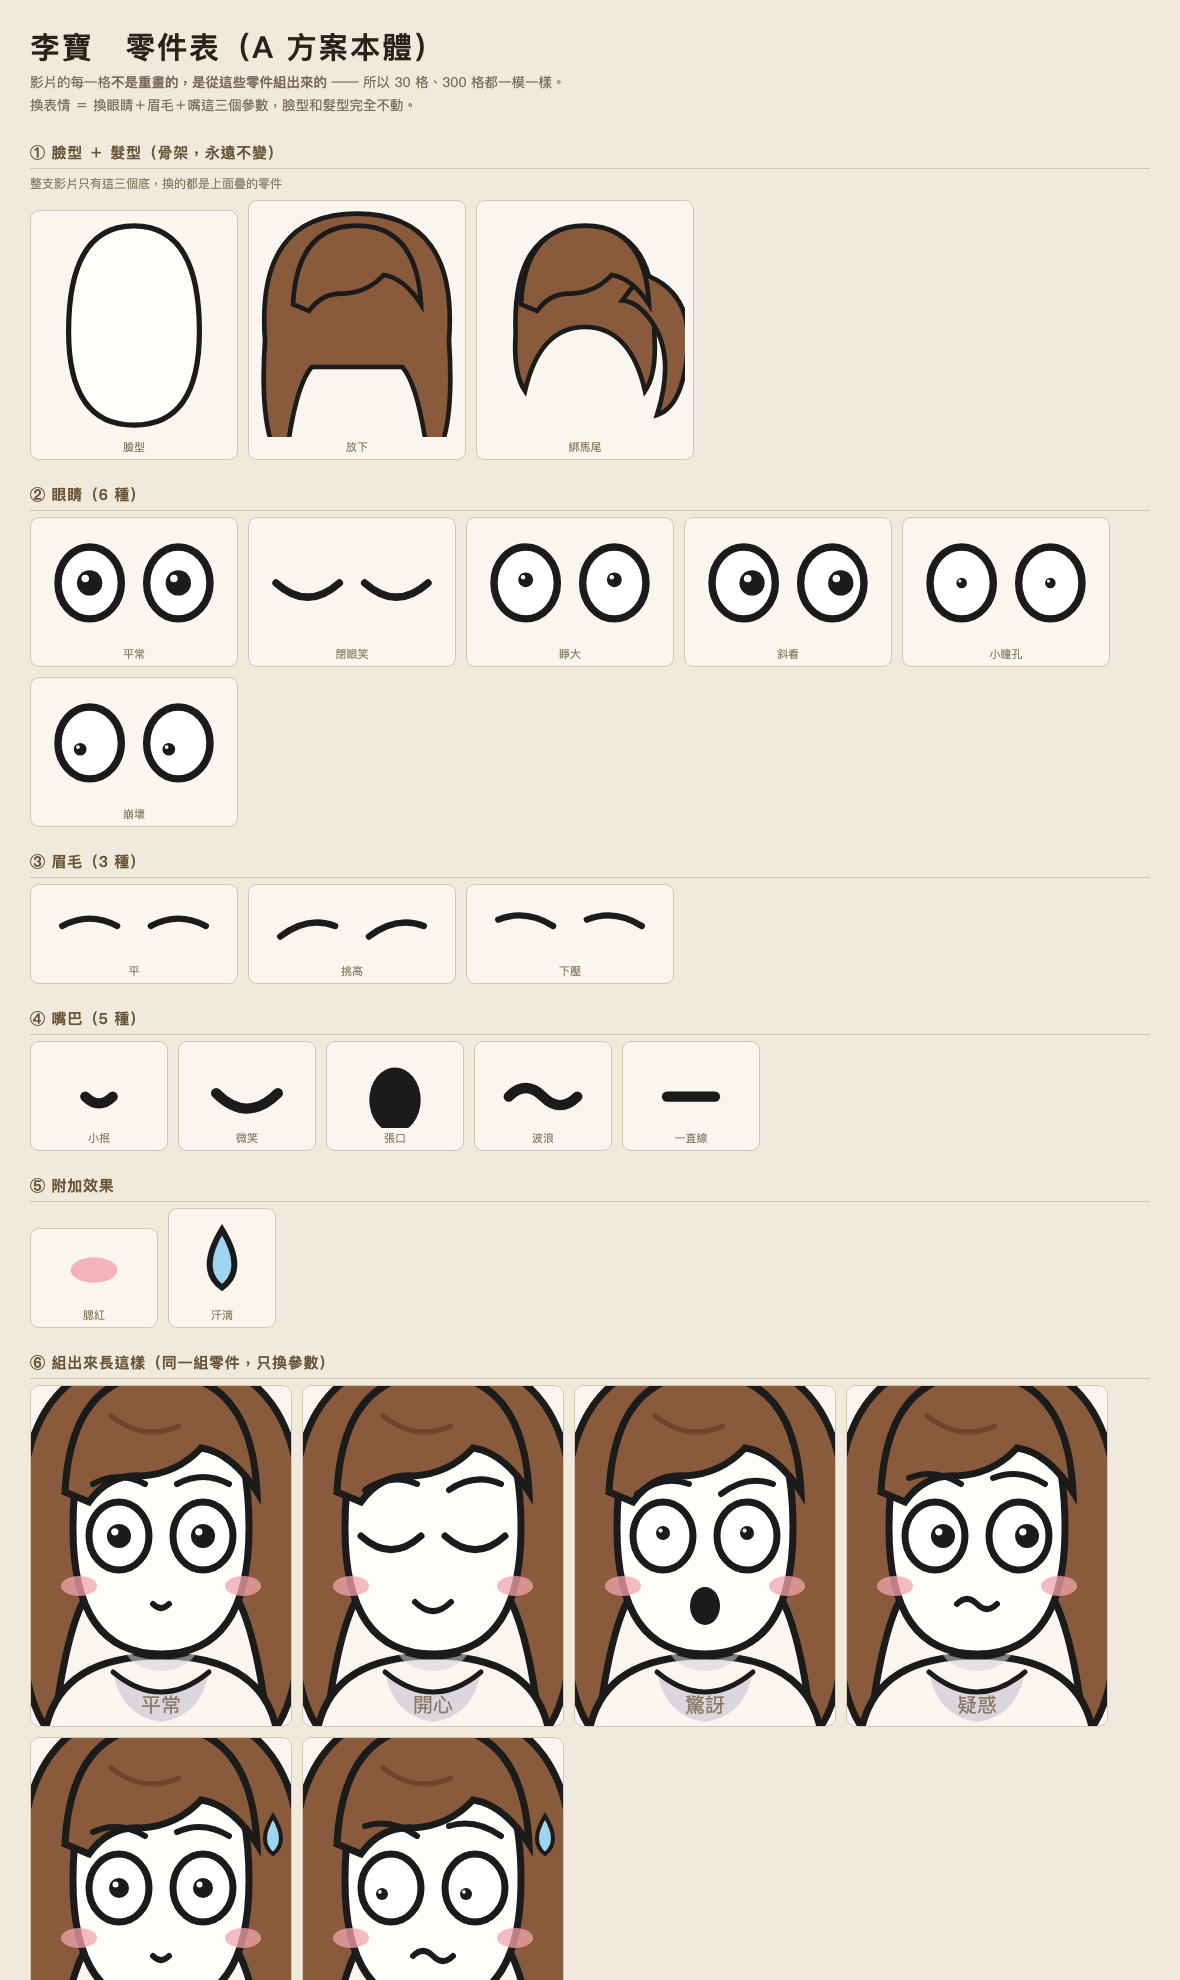
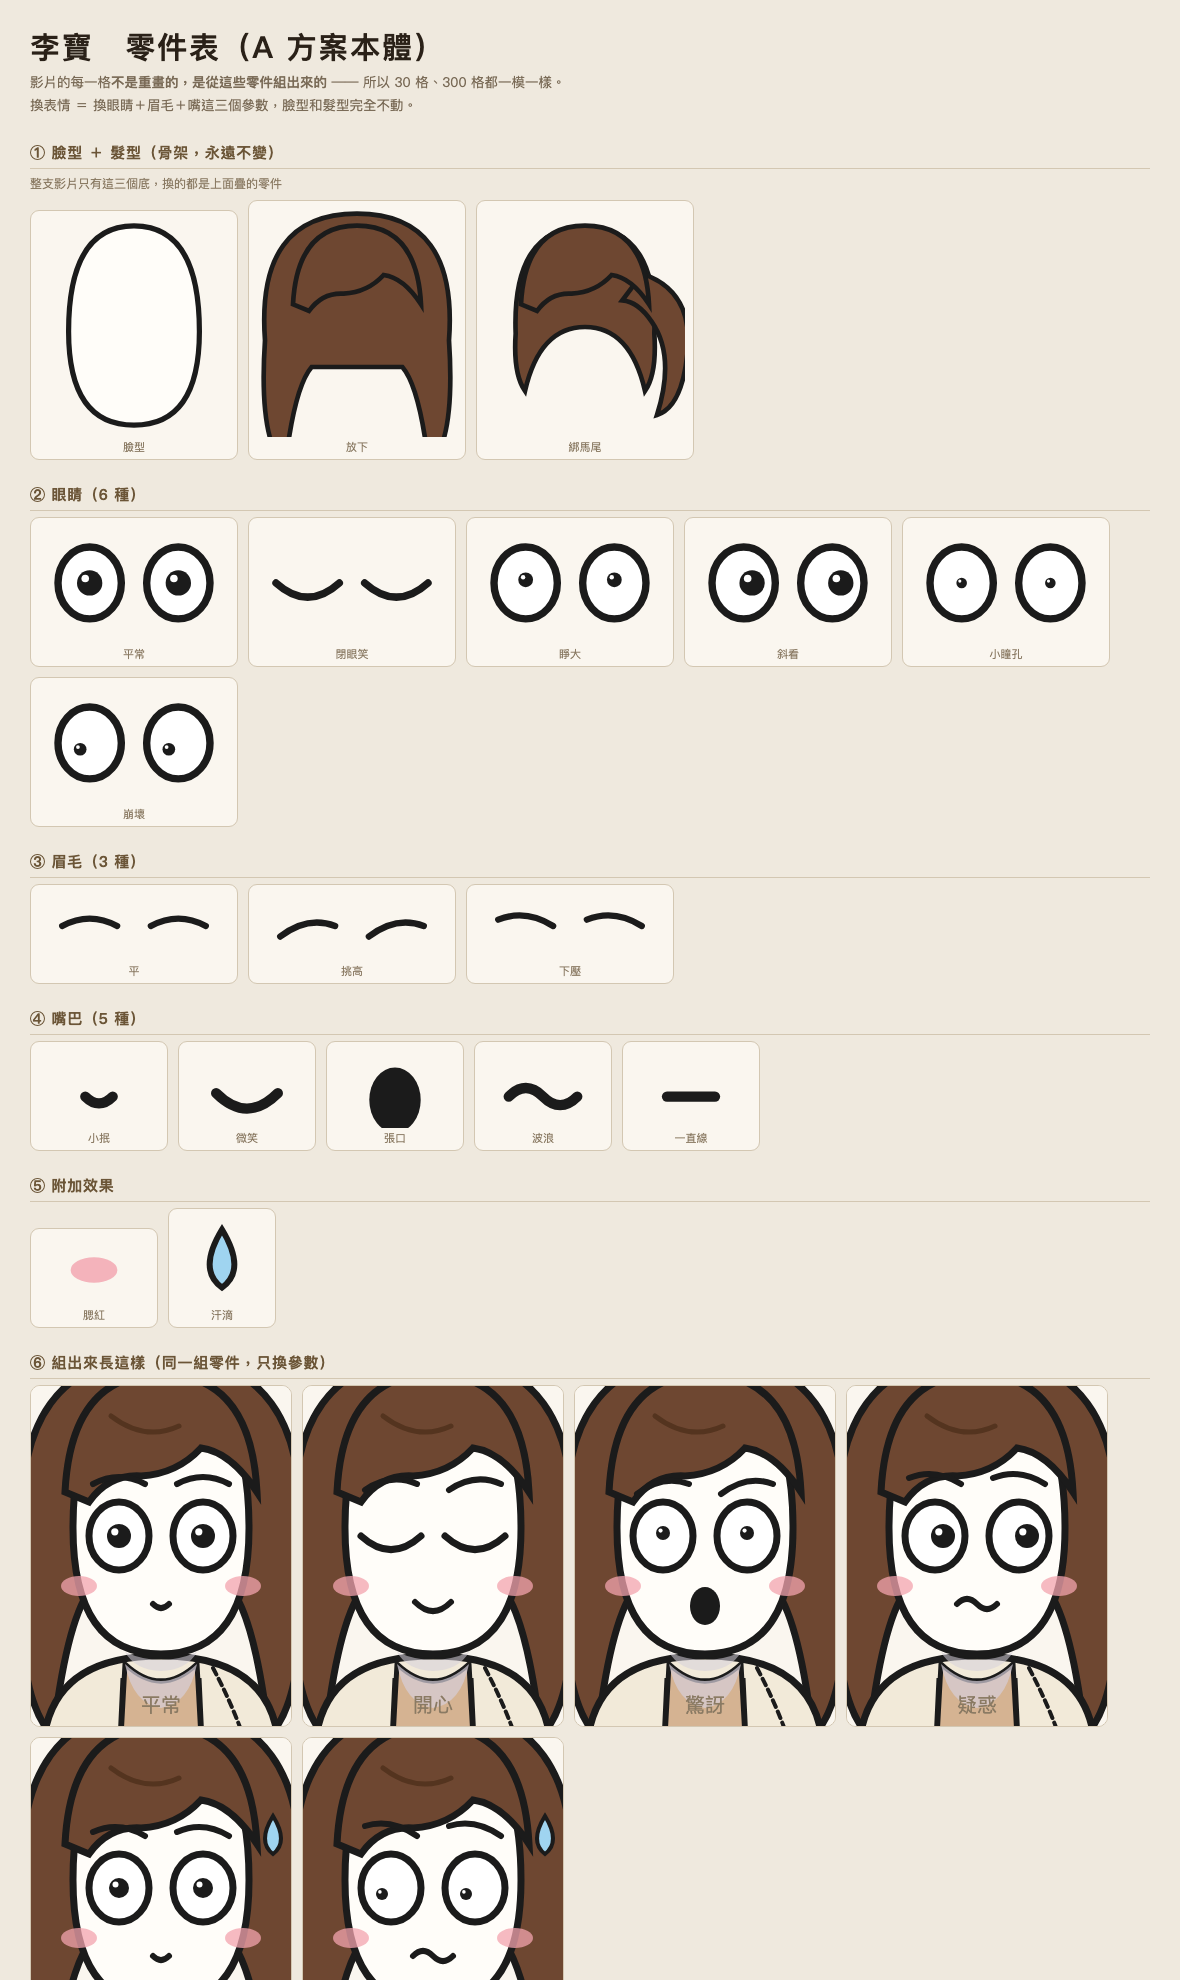
photonb: update notebook (35 notes)

diff --git a/public/photonb/li-and-na.html b/public/photonb/li-and-na.html
@@ -139,7 +139,7 @@ Row 4 — the character at three camera distances: full shot, medium shot, extre
 No background, no text labels, no shading beyond the single flat shadow tone.</pre>
 
   <h2>🖼 角色卡（2026-08-11）</h2>
-  <p class="note"><b>李寶三組、南湳兩組。</b>下面四張是 AI 生圖版（造型定裝用），最後一組是我用向量畫的（量產用）。
+  <p class="note"><b>李寶三組、南湳兩組，全部到齊。</b>AI 生圖版負責定造型，真實照片版是實拍基準，向量零件表負責量產。
     版面文字全部由我排，<b>沒讓 AI 畫字</b>。</p>
 
   <h3>李寶 ① 線條插畫　—— 頻道主體</h3>
@@ -147,6 +147,9 @@ No background, no text labels, no shading beyond the single flat shadow tone.</p
 
   <h3>李寶 ② 可愛Q版　—— 貼紙／周邊／頭像</h3>
   <div class="card"><img src="prompt-assets/lina-card-li_chibi.png" alt="李寶 Q版 角色設定表" style="width:100%;border-radius:10px;display:block"></div>
+
+  <h3>李寶 ③ 真實照片版　—— 用 LV101 那批，不經 AI</h3>
+  <div class="card"><img src="prompt-assets/lina-card-li_real.png" alt="李寶 真實照片版 角色設定表" style="width:100%;border-radius:10px;display:block"></div>
 
   <h3>南湳 ① 水彩繪本　—— 沿用你原本手冊的風格</h3>
   <div class="card"><img src="prompt-assets/lina-card-na_book.png" alt="南湳 繪本版 角色設定表" style="width:100%;border-radius:10px;display:block"></div>
@@ -172,7 +175,7 @@ No background, no text labels, no shading beyond the single flat shadow tone.</p
 
   <div class="callout warn">
     ⚠ <b>已知待修</b>：南湳有幾張被 AI 穿上衣服、站起來變兩腳走路（給的姿勢指令本來是寫給人的）。
-    要改成純四腳貓約 NT$16，等 James 決定。<br>
+    <b>James 2026-08-11 決定保留</b>，不重生、不再花錢。<br>
     另外少數幾張 AI 自己加了「LI BAO / Na Nan」英文字，排版時未裁，不影響使用。
   </div>
 
